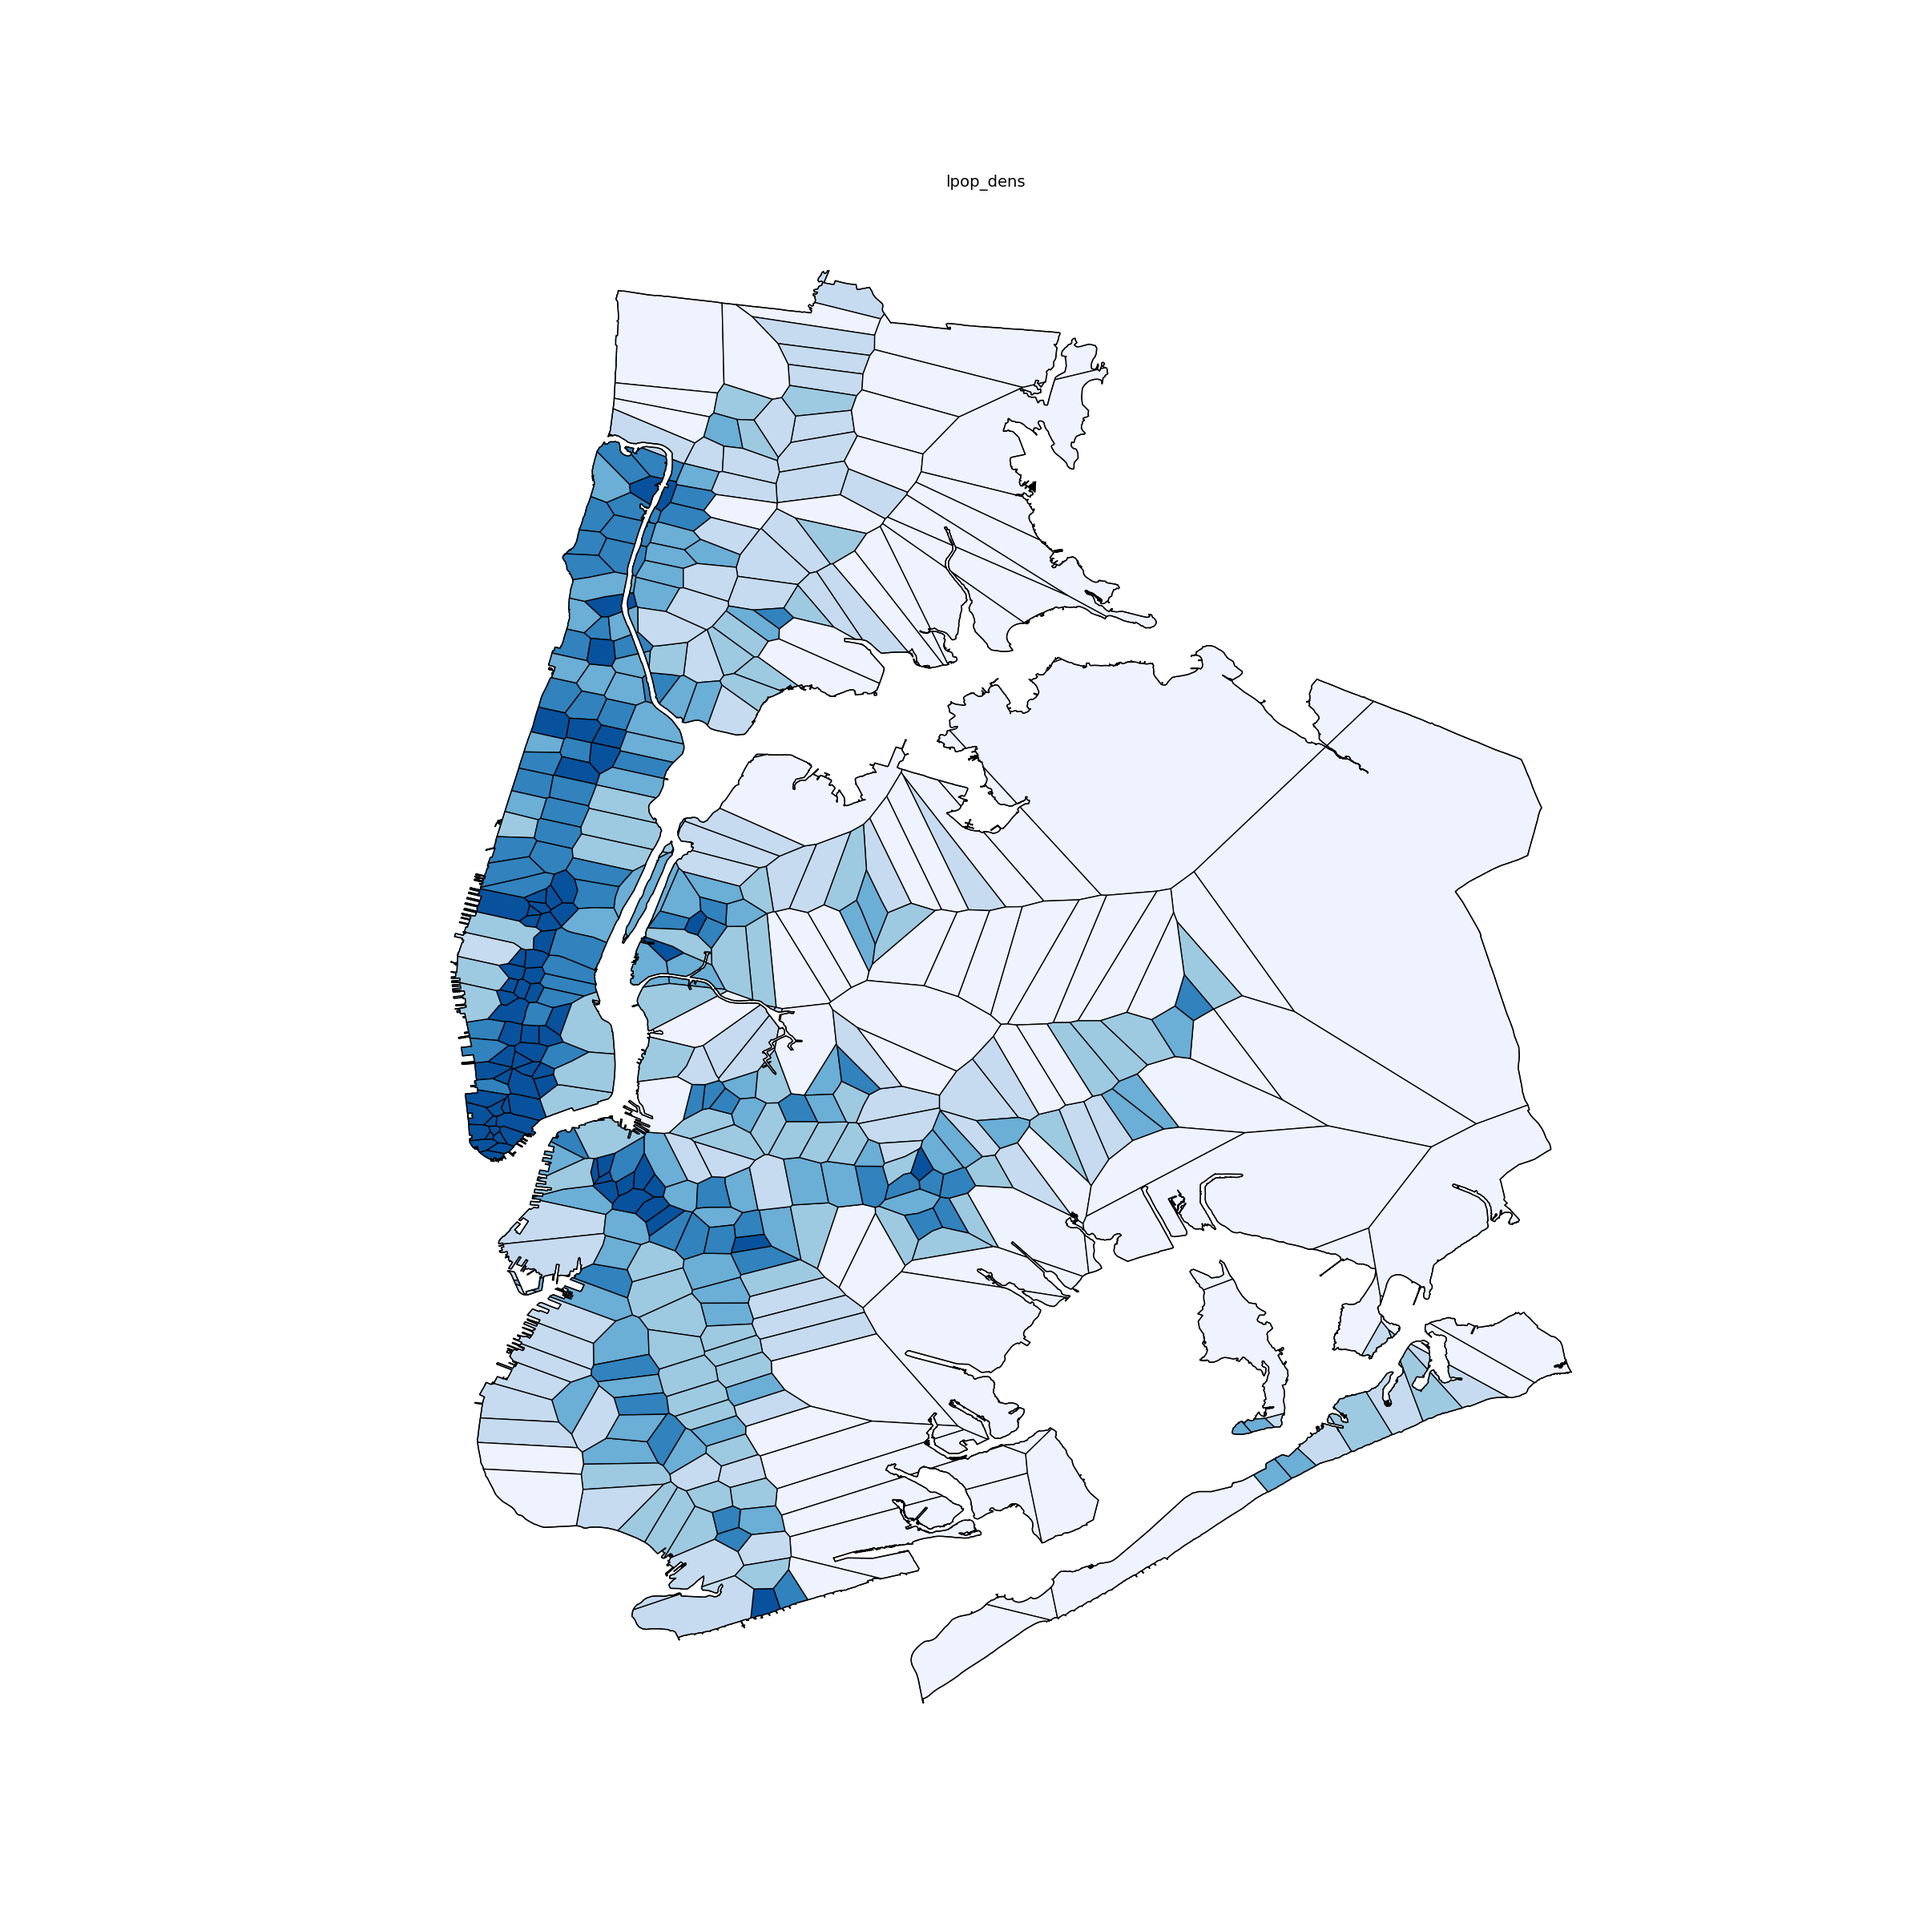
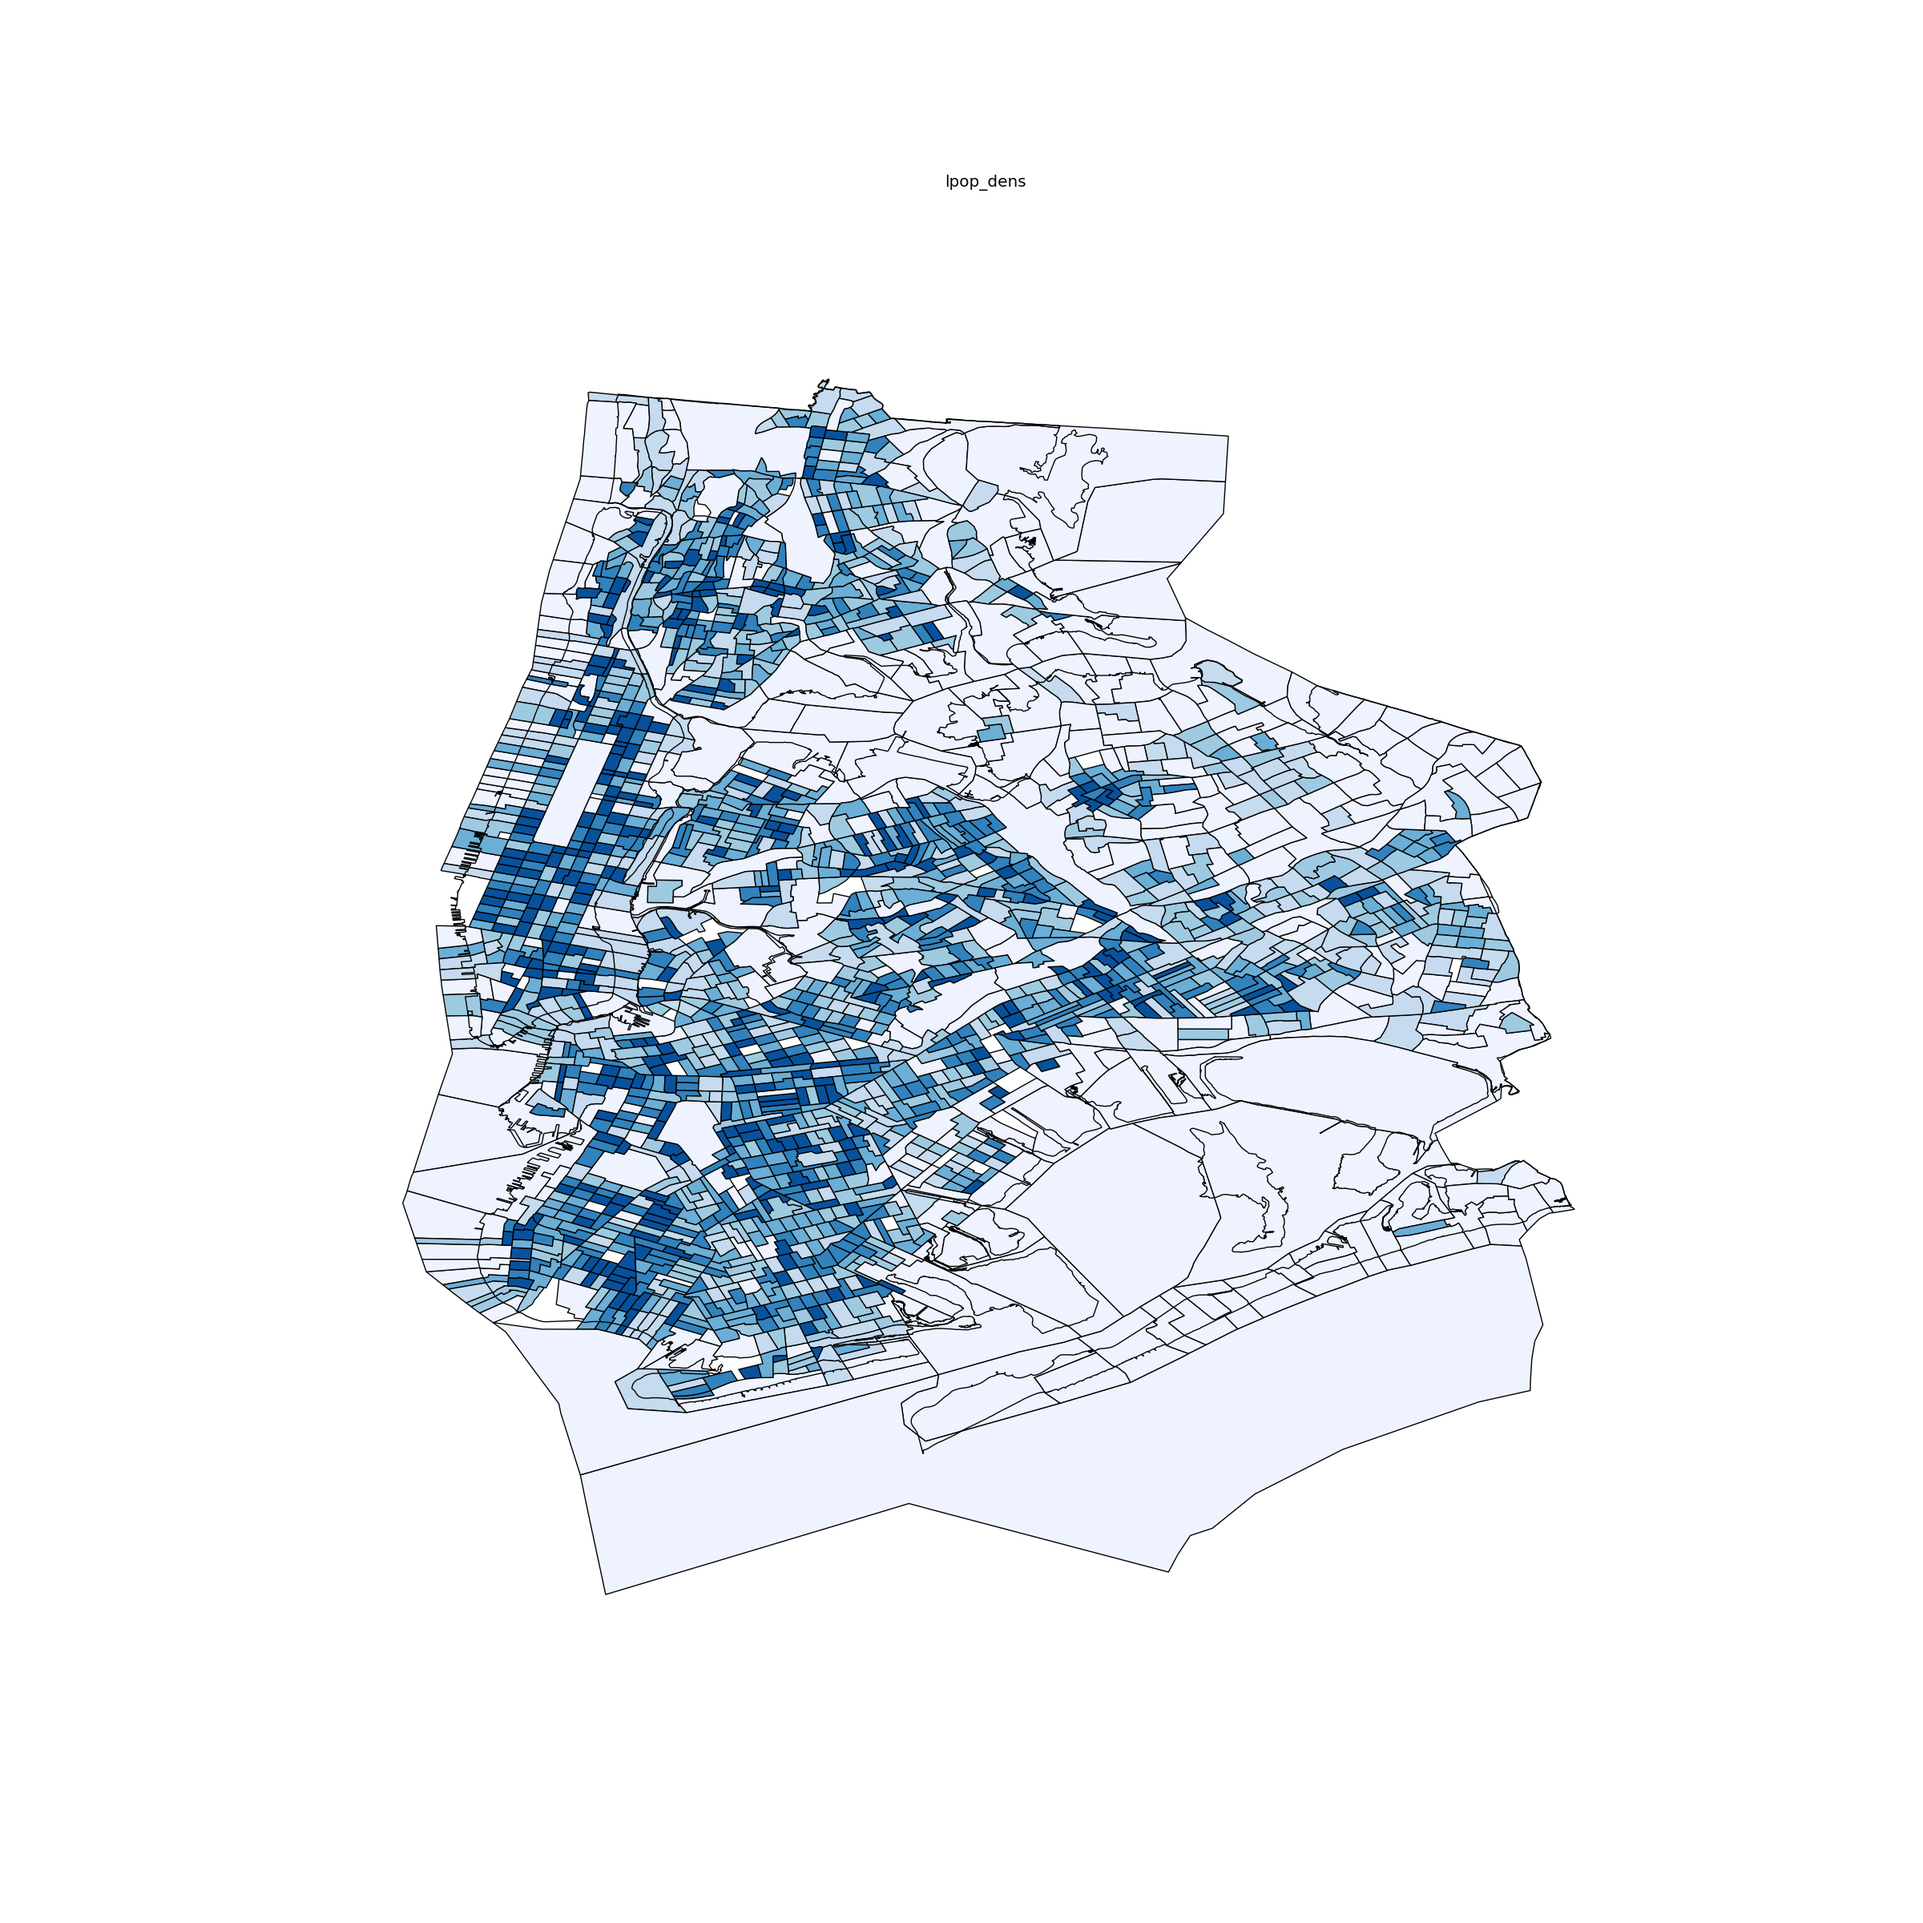
now plots tracts, and their densities; need to clip tracts

Changed region(s): [[0.2188, 0.125, 0.8125, 0.875]]

diff --git a/population.py b/population.py
@@ -7,7 +7,6 @@ from geopandas import GeoDataFrame
 
 import pickle
 
-stops = pickle.load(open('save/stops.p','rb'))
 
 # # 2.5 population data
 # read in census populatio data
@@ -40,6 +39,7 @@ tracts = GeoDataFrame(index=range(len(tract_polygons)))
 tracts['region'] = tract_polygons
 tracts['geoid'] = geoids
 tracts['population'] = np.tile(np.nan, len(tracts))
+tracts['area'] = np.tile(np.nan, len(tracts))
 tracts['pop_density'] = np.tile(np.nan, len(tracts))
 
 # match census tract geometry with population data
@@ -48,35 +48,50 @@ for i in range(len(tracts)):
     pop = pops[pops['GEOID'] == tract['GEOID']].iloc[0]['POPULATION']
     tracts['population'].iloc[i] = pop
 
-stops_list = stops['region'].tolist()
-tracts_list = tracts['region'].tolist()
-tract_sets = []
-for i in range(len(stops_list)):
-    stop = stops_list[i]
-    contains = []
-    for j in range(len(tracts_list)):
-        tract = tracts_list[j]
-        if stop.intersects(tract):
-            intersection = (stop.intersection(tract))
-            contains.append((intersection.area,tracts.iloc[j]['population']/(tract.area/1000000)))
-    tract_sets.append(contains)
+areas = []
+for i in range(len(tracts)):
+    tract = tracts.iloc[i]
+    area = tract['region'].area / 1000000 # in sq km
+    areas.append(area)
+tracts['area'] = areas
 
-# set income for each subway stop to be average median household income,
-# weighted by proportion of total area represented by each tract
-stops['population'] = np.tile(np.nan, len(stops))
-for i in range(len(stops)):
-    stop = stops.iloc[i]
-    tract_set = np.array(tract_sets[i])
+tracts['pop_dens'] = tracts['population'] / tracts['area']
+tracts['lpop_dens'] = np.log(tracts['pop_dens'])
 
-    total = np.sum(tract_set[:,0])
-    weights = tract_set[:,0] / total
-    weighted_pops = tract_set[:,1]*weights
-    pop = np.sum(weighted_pops)
+tracts = tracts[ tracts['population']!=0 ]
 
-    stops['population'].iloc[i] = pop
+# stops = pickle.load(open('save/stops.p','rb'))
 
-# convert to people per kilometer
-stops['pop_dens'] = stops['population'] #/ (stops['v_area']/1000000)
-stops['lpop_dens'] = np.log(stops['pop_dens'])
+# stops_list = stops['region'].tolist()
+# tracts_list = tracts['region'].tolist()
+# tract_sets = []
+# for i in range(len(stops_list)):
+    # stop = stops_list[i]
+    # contains = []
+    # for j in range(len(tracts_list)):
+        # tract = tracts_list[j]
+        # if stop.intersects(tract):
+            # intersection = (stop.intersection(tract))
+            # contains.append((intersection.area,tracts.iloc[j]['population']/(tract.area/1000000)))
+    # tract_sets.append(contains)
 
-pickle.dump(stops,open('save/stops_pop.p','wb'))
+# # set income for each subway stop to be average median household income,
+# # weighted by proportion of total area represented by each tract
+# stops['population'] = np.tile(np.nan, len(stops))
+# for i in range(len(stops)):
+    # stop = stops.iloc[i]
+    # tract_set = np.array(tract_sets[i])
+
+    # total = np.sum(tract_set[:,0])
+    # weights = tract_set[:,0] / total
+    # weighted_pops = tract_set[:,1]*weights
+    # pop = np.sum(weighted_pops)
+
+    # stops['population'].iloc[i] = pop
+
+# # convert to people per kilometer
+# stops['pop_dens'] = stops['population'] #/ (stops['v_area']/1000000)
+# stops['lpop_dens'] = np.log(stops['pop_dens'])
+
+# pickle.dump(stops,open('save/stops_pop.p','wb'))
+pickle.dump(tracts,open('save/tracts.p','wb'))

diff --git a/plot.py b/plot.py
@@ -4,9 +4,10 @@ from geopandas import GeoDataFrame, GeoSeries
 from descartes import PolygonPatch
 import numpy as np
 
-stops = pickle.load(open('save/stops_pop.p','rb'))
+# stops = pickle.load(open('save/stops_pop.p','rb'))
+stops = pickle.load(open('save/tracts.p','rb'))
 
-measure = 'lincome'
+measure = 'lpop_dens'
 outname = 'save/plots/choropleth_' + measure + '.png'
 
 # Plotting
@@ -52,15 +53,15 @@ for clip in nyc:
     x, y = clip.exterior.xy
     ax.plot(x, y, color="#000000", linewidth=1, zorder=2)
 
-system = pickle.load(open('save/system.p','rb'))
-for edge in system.edges():
-    stop1 = stops[stops['stop_id']==edge[0]].iloc[0]
-    stop2 = stops[stops['stop_id']==edge[1]].iloc[0]
-    x1,y1 = stop1[['x','y']].values
-    x2,y2 = stop2[['x','y']].values
-    x = [x1,x2]
-    y = [y1,y2]
-    # plt.plot(x,y,'k',zorder=2)
+# system = pickle.load(open('save/system.p','rb'))
+# for edge in system.edges():
+    # stop1 = stops[stops['stop_id']==edge[0]].iloc[0]
+    # stop2 = stops[stops['stop_id']==edge[1]].iloc[0]
+    # x1,y1 = stop1[['x','y']].values
+    # x2,y2 = stop2[['x','y']].values
+    # x = [x1,x2]
+    # y = [y1,y2]
+    # # plt.plot(x,y,'k',zorder=2)
 
 plt.savefig(outname)
 plt.close()
